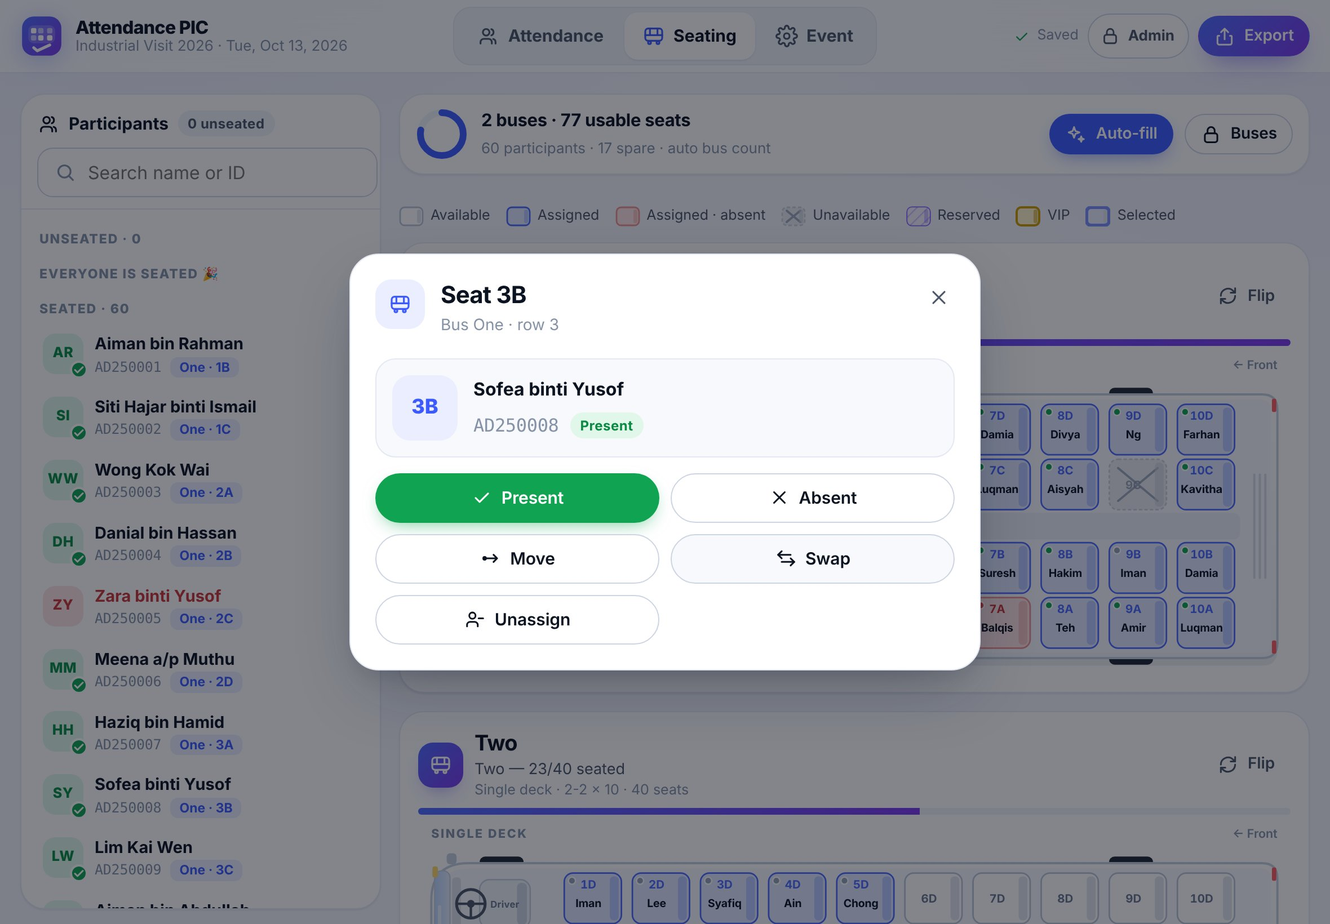
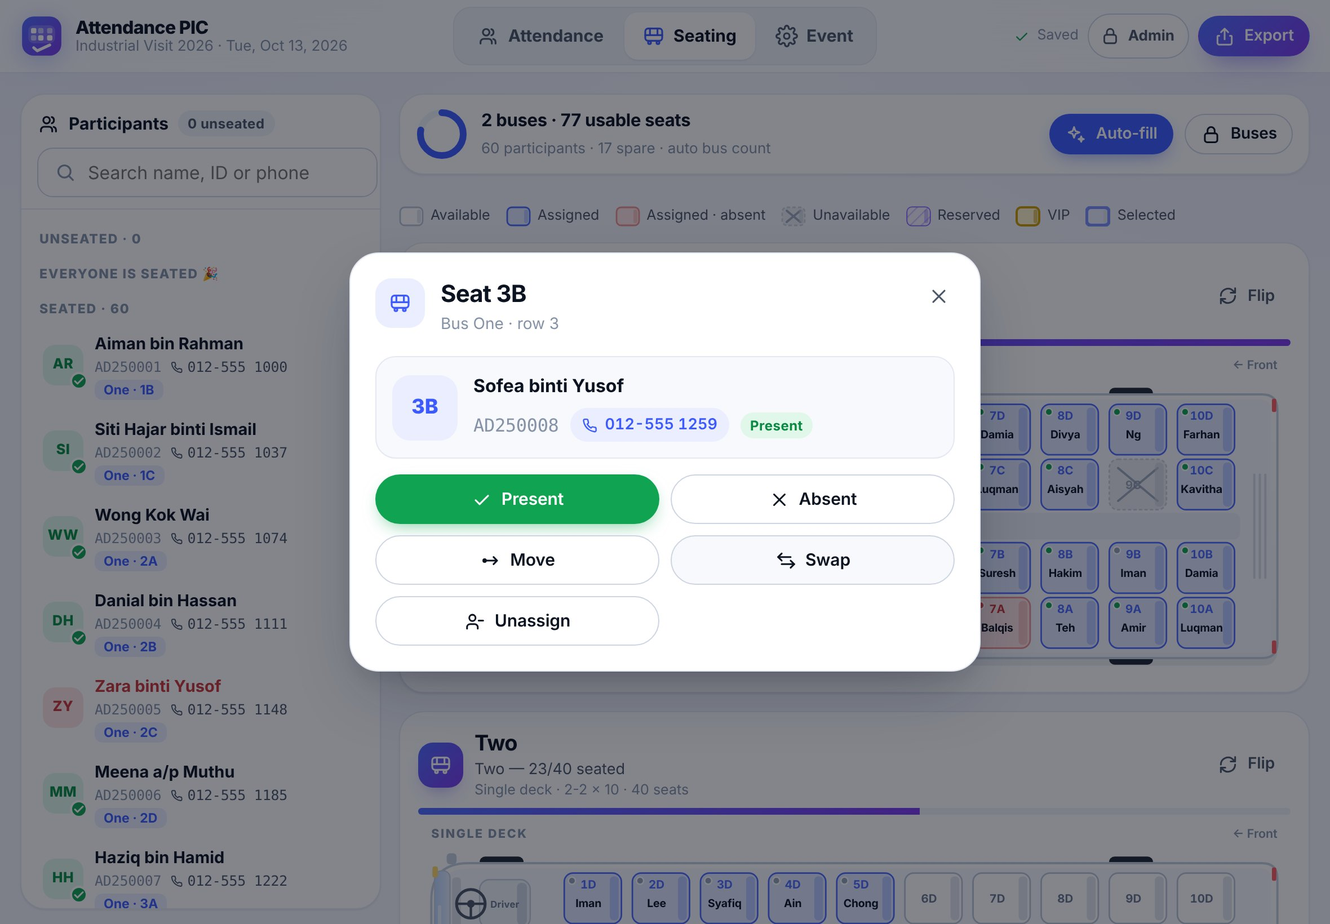
Show phone numbers in the Seating tab
- Importer detects an optional phone column (Phone, Tel, No. Tel, H/P,
  Mobile, ...); selectable in the import wizard and later in Event ->
  Participant list -> Phone column (older events fall back to a guess)
- Seating panel and seat picker show the number next to the ID; the seat
  sheet shows it as a tap-to-call link; search also matches phone digits
- 'Mask IDs and phone numbers on screen' masks phones too (maskPhone)
- Tests: tests/phone.spec.js (4) + phone mapping in the import test
- CLAUDE.md with project rules for AI assistants; docs and screenshots
  updated

Claude-Session: https://claude.ai/code/session_017cmpswsMSqKzXQX5EgusX3

diff --git a/app/js/ui/seat-interactions.js b/app/js/ui/seat-interactions.js
@@ -10,7 +10,7 @@ import { h, esc, debounce } from './dom.js';
 import { icon } from './icons.js';
 import { openOverlay, toast, choiceDialog, actionsRow } from './dialogs.js';
 import { initials, norm, plural } from '../utils/format.js';
-import { maskId } from '../utils/mask.js';
+import { maskId, maskPhone } from '../utils/mask.js';
 import { SEAT_TYPE_NAMES } from '../domain/model.js';
 
 const TYPE_ICONS = { available: 'check', unavailable: 'ban', reserved: 'bookmark', vip: 'crown' };
@@ -22,6 +22,23 @@ export function installSeatInteractions(view) {
   let panelQuery = '';
 
   const showId = (p) => (store.settings.maskIds ? maskId(p.studentId) : p.studentId);
+  const showPhone = (p) => {
+    const ph = store.phoneOf(p);
+    return ph && store.settings.maskIds ? maskPhone(ph) : ph;
+  };
+  /** Phone number as a tap-to-call link (plain text while masked). */
+  const phoneLink = (p) => {
+    const ph = store.phoneOf(p);
+    if (!ph) return '';
+    if (store.settings.maskIds) return `<span class="phone-chip" data-testid="sheet-phone">${icon('phone')}${esc(maskPhone(ph))}</span>`;
+    const tel = ph.replace(/[^\d+]/g, '');
+    return `<a class="phone-chip" href="tel:${esc(tel)}" data-testid="sheet-phone">${icon('phone')}${esc(ph)}</a>`;
+  };
+  // Search matches name, ID and phone (digits only, so "0125551000" finds "012-555 1000").
+  const haystack = (p) => {
+    const ph = store.phoneOf(p);
+    return `${norm(`${p.name} ${p.studentId} ${ph}`)} ${ph.replace(/\D/g, '')}`;
+  };
   const seatInfo = (seatId) => store.seatIndex.get(seatId);
   const seatName = (seatId) => {
     const i = seatInfo(seatId);
@@ -57,7 +74,7 @@ export function installSeatInteractions(view) {
     panel.innerHTML = `
       <div class="seat-panel-head">
         <h3>${icon('users')} Participants <span class="badge" data-testid="unseated-count"></span></h3>
-        <label class="search">${icon('search')}<input type="search" placeholder="Search name or ID" data-testid="panel-search" autocomplete="off" spellcheck="false"></label>
+        <label class="search">${icon('search')}<input type="search" placeholder="Search name, ID or phone" data-testid="panel-search" autocomplete="off" spellcheck="false"></label>
       </div>
       <ul class="panel-list" data-testid="panel-list"></ul>`;
     panelRefs = { list: panel.querySelector('.panel-list'), search: panel.querySelector('input'), count: panel.querySelector('[data-testid=unseated-count]'), panel };
@@ -90,13 +107,16 @@ export function installSeatInteractions(view) {
     const st = statusOf(p.id);
     return `<li><button type="button" class="person ${ui.selectedPid === p.id ? 'is-selected' : ''} ${st === 'present' ? 'is-present' : st === 'absent' ? 'is-absent' : ''}" data-pid="${p.id}" data-testid="person">
       <span class="avatar">${esc(initials(p.name))}<span class="tick">${icon('check')}</span></span>
-      <span class="p-main"><span class="p-name">${esc(p.name)}</span><span class="p-sub"><span class="mono">${esc(showId(p))}</span>${seat ? `<span class="seat-tag">${esc(seat.bus)} · ${esc(seat.label)}</span>` : ''}</span></span>
+      <span class="p-main"><span class="p-name">${esc(p.name)}</span><span class="p-sub"><span class="mono" data-testid="person-id">${esc(showId(p))}</span>${(() => {
+        const ph = showPhone(p);
+        return ph ? `<span class="p-phone mono" data-testid="person-phone">${icon('phone')}${esc(ph)}</span>` : '';
+      })()}${seat ? `<span class="seat-tag">${esc(seat.bus)} · ${esc(seat.label)}</span>` : ''}</span></span>
     </button></li>`;
   }
 
   function renderPanelList() {
     if (!panelRefs || !panelRefs.list.isConnected) return;
-    const match = (p) => !panelQuery || norm(`${p.name} ${p.studentId}`).includes(panelQuery);
+    const match = (p) => !panelQuery || haystack(p).includes(panelQuery);
     const unseated = store.participants.filter((p) => !store.seatOf.has(p.id));
     const seated = store.participants.filter((p) => store.seatOf.has(p.id));
     panelRefs.count.textContent = `${unseated.length} unseated`;
@@ -261,7 +281,7 @@ export function installSeatInteractions(view) {
       const typeBadge = type === 'available' ? '' : `<span class="badge ${type === 'vip' ? 'badge--vip' : type === 'reserved' ? 'badge--violet' : ''}">${icon(TYPE_ICONS[type])}${SEAT_TYPE_NAMES[type]}${t?.label ? ` · ${esc(t.label)}` : ''}</span>`;
       let html = `<div class="seat-sheet-head"><span class="seat-big ${bigCls}">${esc(info.seat.label)}</span><div class="grow">`;
       if (p) {
-        html += `<strong data-testid="sheet-name">${esc(p.name)}</strong><div class="row-wrap mt-8"><span class="mono subtle">${esc(showId(p))}</span>
+        html += `<strong data-testid="sheet-name">${esc(p.name)}</strong><div class="row-wrap mt-8"><span class="mono subtle">${esc(showId(p))}</span>${phoneLink(p)}
           <span class="badge ${st === 'present' ? 'badge--green' : st === 'absent' ? 'badge--red' : ''}" data-testid="sheet-status">${st ? st[0].toUpperCase() + st.slice(1) : 'Unmarked'}</span>${typeBadge}</div>`;
       } else {
         html += `<strong>${type === 'available' ? 'Empty seat' : SEAT_TYPE_NAMES[type] + ' seat'}</strong><div class="row-wrap mt-8">${typeBadge || '<span class="badge badge--green">Available</span>'}</div>`;
@@ -283,7 +303,7 @@ export function installSeatInteractions(view) {
           <button class="btn btn-secondary" type="button" data-a="unlock">${icon('unlock')}<span>Unlock admin</span></button>`;
       } else {
         html += `<div class="section-label">Assign someone</div>
-          <label class="search">${icon('search')}<input type="search" placeholder="Search name or ID" data-testid="picker-search" autocomplete="off" spellcheck="false"></label>
+          <label class="search">${icon('search')}<input type="search" placeholder="Search name, ID or phone" data-testid="picker-search" autocomplete="off" spellcheck="false"></label>
           <ul class="picker-list" data-testid="picker-list"></ul>`;
       }
 
@@ -300,7 +320,7 @@ export function installSeatInteractions(view) {
         const fill = () => {
           const q = norm(input.value);
           const list = store.participants
-            .filter((x) => !q || norm(`${x.name} ${x.studentId}`).includes(q))
+            .filter((x) => !q || haystack(x).includes(q))
             .sort((a, b) => Number(store.seatOf.has(a.id)) - Number(store.seatOf.has(b.id)) || a.order - b.order)
             .slice(0, 80);
           picker.innerHTML = list.map(personButton).join('') || '<li class="subtle">No match</li>';

diff --git a/tests/phone.spec.js b/tests/phone.spec.js
@@ -1,0 +1,54 @@
+import { test, expect, setupWithSample, goSeating, seat } from './helpers.js';
+
+// Sample participant #1: Aiman bin Rahman · AD250001 · 012-555 1000
+//                    #2: Siti Hajar binti Ismail · AD250002 · 012-555 1037
+const panelPeople = (page) => page.getByTestId('panel-list').getByTestId('person');
+
+test.describe('Phone numbers in the Seating tab', () => {
+  test.beforeEach(async ({ page }) => {
+    await setupWithSample(page);
+    await goSeating(page);
+  });
+
+  test('shown next to the ID in the participants panel and searchable', async ({ page }) => {
+    const first = panelPeople(page).first();
+    await expect(first.getByTestId('person-id')).toHaveText('AD250001');
+    await expect(first.getByTestId('person-phone')).toHaveText('012-555 1000');
+    // digits-only search finds the formatted number
+    await page.getByTestId('panel-search').fill('0125551037');
+    await expect(panelPeople(page)).toHaveCount(1);
+    await expect(panelPeople(page).first()).toContainText('Siti Hajar binti Ismail');
+  });
+
+  test('seat sheet shows a tap-to-call link; the picker shows phones too', async ({ page }) => {
+    await panelPeople(page).first().click();
+    await seat(page, 0, '1A').click();
+    await seat(page, 0, '1A').click();
+    await expect(page.getByTestId('sheet-phone')).toHaveText('012-555 1000');
+    await expect(page.getByTestId('sheet-phone')).toHaveAttribute('href', 'tel:0125551000');
+    await page.keyboard.press('Escape');
+    await seat(page, 0, '1B').click();
+    await expect(page.getByTestId('picker-list').getByTestId('person-phone').first()).toHaveText('012-555 1037');
+  });
+
+  test('masked together with IDs when "Mask IDs and phone numbers" is on', async ({ page }) => {
+    await page.goto('./#/event');
+    await page.getByTestId('mask-toggle').click();
+    await goSeating(page);
+    const first = panelPeople(page).first();
+    await expect(first.getByTestId('person-id')).toHaveText('AD••••••');
+    await expect(first.getByTestId('person-phone')).toHaveText('012-••• ••00');
+  });
+
+  test('the phone column can be changed or turned off in the Event tab', async ({ page }) => {
+    await page.goto('./#/event');
+    await expect(page.getByTestId('ev-phone')).toHaveValue('Phone');
+    await page.getByTestId('ev-phone').selectOption('');
+    await goSeating(page);
+    await expect(panelPeople(page).first().getByTestId('person-phone')).toHaveCount(0);
+    await page.goto('./#/event');
+    await page.getByTestId('ev-phone').selectOption('Phone');
+    await goSeating(page);
+    await expect(panelPeople(page).first().getByTestId('person-phone')).toHaveText('012-555 1000');
+  });
+});

diff --git a/app/js/ui/event-view.js b/app/js/ui/event-view.js
@@ -46,6 +46,11 @@ export function createEventView(ctx) {
             <dt>Key info</dt><dd>${esc((cols?.keyInfo || []).join(', ') || '—')}</dd>
             <dt>Buses</dt><dd>${store.buses.length} · ${esc(describeConfig(store.template))} template</dd>
           </dl>
+          ${cols ? `<label class="field mt-16"><span class="field-label">Phone column <small class="subtle">(shown in the Seating tab)</small></span>
+            <select class="select" data-k="phone" data-testid="ev-phone">
+              <option value="" ${store.phoneColumn() ? '' : 'selected'}>— None —</option>
+              ${(cols.headers || []).filter((hd) => hd !== cols.name && hd !== cols.id).map((hd) => `<option value="${esc(hd)}" ${hd === store.phoneColumn() ? 'selected' : ''}>${esc(hd)}</option>`).join('')}
+            </select></label>` : ''}
           <div class="row-wrap mt-16">
             <button class="btn btn-primary" type="button" data-act="import" data-testid="ev-import">${icon('upload')}<span>Import list</span></button>
           </div>
@@ -86,7 +91,7 @@ export function createEventView(ctx) {
             <div class="segmented" data-k="theme" role="group" aria-label="Theme">
               ${[['auto', 'monitor', 'Auto'], ['light', 'sun', 'Light'], ['dark', 'moon', 'Dark']].map(([v, ic, l]) => `<button type="button" data-theme-opt="${v}" aria-pressed="${store.settings.theme === v}">${icon(ic)}${l}</button>`).join('')}
             </div>
-            <label class="switch" data-testid="mask-toggle"><input type="checkbox" data-k="mask" ${store.settings.maskIds ? 'checked' : ''}><span class="track"></span><span>Mask IDs on screen (e.g. AD••••••)</span></label>
+            <label class="switch" data-testid="mask-toggle"><input type="checkbox" data-k="mask" ${store.settings.maskIds ? 'checked' : ''}><span class="track"></span><span>Mask IDs and phone numbers on screen (e.g. AD••••••, 012-••• ••00)</span></label>
           </div>
         </div>
 
@@ -127,6 +132,10 @@ export function createEventView(ctx) {
       if (b) store.setSetting('theme', b.dataset.themeOpt);
     });
     el.querySelector('[data-k=mask]').addEventListener('change', (e) => store.setSetting('maskIds', e.target.checked));
+    el.querySelector('[data-k=phone]')?.addEventListener('change', async (e) => {
+      await store.setPhoneColumn(e.target.value);
+      toast(e.target.value ? `Phone numbers from “${e.target.value}”` : 'Phone numbers hidden');
+    });
     el.querySelector('[data-testid=event-list]').addEventListener('click', async (e) => {
       const open = e.target.closest('[data-open]');
       const del = e.target.closest('[data-delete]');

diff --git a/app/js/store.js b/app/js/store.js
@@ -11,7 +11,7 @@ import { createEvent, createBus, emptyAttendance, STATUS, SCHEMA_VERSION } from 
 import { enumerateSeats, normalizeConfig, nextBusName, parseSeatId } from './domain/layout.js';
 import { planAutoBuses, busStats } from './domain/capacity.js';
 import { hhmm, norm } from './utils/format.js';
-import { buildParticipants } from './io/importer.js';
+import { buildParticipants, guessPhoneColumn } from './io/importer.js';
 import { BACKUP_FORMAT } from './repo/errors.js';
 
 const UNDO_LIMIT = 50;
@@ -727,6 +727,28 @@ export class Store extends EventTarget {
     if (!seatId) return null;
     const info = this.seatIndex.get(seatId);
     return info ? { seatId, label: info.seat.label, bus: info.bus.name, busId: info.bus.id, order: info.bus.order * 10000 + info.seat.index } : null;
+  }
+
+  // ── phone numbers ─────────────────────────────────────────────────────────
+  /**
+   * The column holding phone numbers ('' = none). Events imported before the
+   * phone mapping existed fall back to a guess from their headers.
+   */
+  phoneColumn() {
+    const cols = this.event?.columns;
+    if (!cols) return '';
+    if (typeof cols.phone === 'string') return cols.phone;
+    return guessPhoneColumn(cols.headers || [], [cols.name, cols.id, ...Object.values(cols.reused || {})].filter(Boolean));
+  }
+
+  phoneOf(p) {
+    const col = this.phoneColumn();
+    return col ? String(p?.original?.[col] ?? '').trim() : '';
+  }
+
+  async setPhoneColumn(col) {
+    if (!this.event?.columns) return;
+    await this.updateEvent({ columns: { ...this.event.columns, phone: col || '' } });
   }
 
   // ── backup ────────────────────────────────────────────────────────────────

diff --git a/app/js/io/importer.js b/app/js/io/importer.js
@@ -23,7 +23,18 @@ const PATTERNS = {
   remarks: [/^(remarks?|notes?|catatan|comments?)$/i],
   bus: [/^bus(\s*(no\.?|name|number))?$/i, /^bas$/i],
   time: [/^check[\s-]?in(\s*time)?$/i, /^(time|masa)$/i],
+  phone: [
+    /^(phone|tel|telephone|mobile|hp|h\/p|handphone|contact)(\s*(no\.?|number|num))?$/i,
+    /^no\.?\s*(tel|telefon|hp|h\/p|phone|handphone)$/i,
+    /^(nombor|no\.?)\s*telefon(\s*bimbit)?$/i,
+    /phone|telefon|mobile|handphone|\btel\b|\bh\/p\b/i,
+  ],
 };
+
+/** Best guess for the phone-number column ('' if none). */
+export function guessPhoneColumn(headers, exclude = []) {
+  return guess(headers, 'phone', exclude);
+}
 
 function guess(headers, kind, exclude = []) {
   for (const re of PATTERNS[kind]) {
@@ -54,9 +65,10 @@ export function guessMapping(headers, records = []) {
         return vals.length && vals.filter((v) => /^[A-Za-z]{0,4}\d{4,}[A-Za-z0-9]*$/.test(v)).length / vals.length > 0.8;
       }) || '';
   }
-  const skip = new Set([name, id, ...taken, ...headers.filter((h) => /^(no\.?|bil\.?|#|num)$/i.test(h))]);
+  const phone = guess(headers, 'phone', [...taken, name, id]);
+  const skip = new Set([name, id, phone, ...taken, ...headers.filter((h) => /^(no\.?|bil\.?|#|num)$/i.test(h))]);
   const keyInfo = headers.filter((h) => h && !skip.has(h)).slice(0, 2);
-  return { name, id, keyInfo, reused };
+  return { name, id, phone, keyInfo, reused };
 }
 
 const PRESENT_RE = /^(present|p|yes|y|1|true|hadir|✓|✔|☑)$/i;
@@ -151,6 +163,7 @@ export function buildParticipants(table, mapping, eventId, sessionId) {
     headers: [...table.headers],
     name: mapping.name,
     id: mapping.id,
+    phone: mapping.phone || '',
     keyInfo: [...(mapping.keyInfo || [])],
     reused: { present: r.present || '', seat: r.seat || '', remarks: r.remarks || '', bus: r.bus || '', time: r.time || '' },
   };

diff --git a/app/js/ui/import-flow.js b/app/js/ui/import-flow.js
@@ -109,6 +109,7 @@ export function openImport(ctx, { file } = {}) {
           ${sheetSel}
           <label class="field"><span class="field-label">Name column *</span><select class="select" data-k="name" data-testid="map-name">${opt(mapping.name)}</select></label>
           <label class="field"><span class="field-label">ID / matric no. column *</span><select class="select" data-k="id" data-testid="map-id">${opt(mapping.id)}</select></label>
+          <label class="field"><span class="field-label">Phone column (optional)</span><select class="select" data-k="phone" data-testid="map-phone"><option value="" ${mapping.phone ? '' : 'selected'}>— None —</option>${opt(mapping.phone)}</select></label>
         </div>
         <div class="field">
           <span class="field-label">Key info shown on each row (optional)</span>
@@ -149,7 +150,7 @@ export function openImport(ctx, { file } = {}) {
       buildTable(true);
       stepMap();
     });
-    for (const k of ['name', 'id']) {
+    for (const k of ['name', 'id', 'phone']) {
       body.querySelector(`[data-k=${k}]`).addEventListener('change', (e) => {
         st.mapping[k] = e.target.value;
         st.mapping.keyInfo = st.mapping.keyInfo.filter((c) => c !== e.target.value);

diff --git a/app/js/ui/icons.js b/app/js/ui/icons.js
@@ -40,6 +40,7 @@ const P = {
   alert: '<path d="M10.3 4.2 2.8 17.5A2 2 0 0 0 4.5 20.5h15a2 2 0 0 0 1.7-3L13.7 4.2a2 2 0 0 0-3.4 0Z"/><path d="M12 9.5v4.5M12 17v.5"/>',
   pin: '<path d="M12 21s-6.5-5.6-6.5-11a6.5 6.5 0 0 1 13 0c0 5.4-6.5 11-6.5 11Z"/><circle cx="12" cy="10" r="2.5"/>',
   user: '<circle cx="12" cy="8" r="4"/><path d="M4.5 20.5a7.5 7.5 0 0 1 15 0"/>',
+  phone: '<path d="M20.5 16.6v2.6a1.8 1.8 0 0 1-2 1.8 17.6 17.6 0 0 1-7.7-2.7 17.3 17.3 0 0 1-5.3-5.3A17.6 17.6 0 0 1 2.8 5.3 1.8 1.8 0 0 1 4.6 3.3h2.6a1.8 1.8 0 0 1 1.8 1.5c.1.9.3 1.7.6 2.5a1.8 1.8 0 0 1-.4 1.9L8 10.3a14.4 14.4 0 0 0 5.4 5.4l1.1-1.1a1.8 1.8 0 0 1 1.9-.4c.8.3 1.6.5 2.5.6a1.8 1.8 0 0 1 1.6 1.8Z"/>',
   more: '<circle cx="5.5" cy="12" r="1.3"/><circle cx="12" cy="12" r="1.3"/><circle cx="18.5" cy="12" r="1.3"/>',
   refresh: '<path d="M20 11a8 8 0 0 0-14.3-4.6L4 8"/><path d="M4 3.5V8h4.5"/><path d="M4 13a8 8 0 0 0 14.3 4.6L20 16"/><path d="M20 20.5V16h-4.5"/>',
   eyeOff: '<path d="M3 3l18 18"/><path d="M10.6 5.1A9.7 9.7 0 0 1 12 5c5 0 8.5 4.5 9.5 7a13 13 0 0 1-2.6 3.8M6.6 6.6A13.3 13.3 0 0 0 2.5 12c1 2.5 4.5 7 9.5 7a9.3 9.3 0 0 0 4.4-1.1"/><path d="M9.9 9.9a3 3 0 0 0 4.2 4.2"/>',

diff --git a/app/css/bus.css b/app/css/bus.css
@@ -203,8 +203,16 @@
 .person .avatar .tick { width: 16px; height: 16px; right: -4px; bottom: -4px; }
 .person .p-main { flex: 1; min-width: 0; }
 .person .p-name { font-weight: 650; font-size: 14.5px; white-space: nowrap; overflow: hidden; text-overflow: ellipsis; }
-.person .p-sub { font-size: 12.5px; color: var(--text-3); display: flex; gap: 8px; }
+.person .p-sub { font-size: 12.5px; color: var(--text-3); display: flex; flex-wrap: wrap; align-items: center; gap: 2px 8px; }
 .person .seat-tag { font-size: 11.5px; }
+.person .p-phone { display: inline-flex; align-items: center; gap: 3px; color: var(--text-2); white-space: nowrap; }
+.person .p-phone .icon { width: 12px; height: 12px; }
+.phone-chip {
+  display: inline-flex; align-items: center; gap: 6px; min-height: 30px; padding: 2px 10px; border-radius: 99px;
+  background: var(--brand-soft); color: var(--brand); font-weight: 600; font-size: 13.5px; text-decoration: none;
+  font-variant-numeric: tabular-nums;
+}
+.phone-chip .icon { width: 15px; height: 15px; }
 .person.is-absent .p-name { color: var(--absent-600); }
 
 .seat-main { min-width: 0; display: grid; gap: 14px; }

diff --git a/app/js/utils/mask.js b/app/js/utils/mask.js
@@ -16,3 +16,19 @@ export function maskId(id) {
   const keep = prefix.length || Math.min(2, Math.max(0, s.length - 4));
   return s.slice(0, keep) + MASK_CHAR.repeat(Math.max(s.length - keep, 1));
 }
+
+/**
+ * Phone numbers under the same privacy setting: keep the first 3 and the
+ * last 2 digits, mask the rest, keep spaces/dashes ("012-555 1000" →
+ * "012-••• ••00").
+ */
+export function maskPhone(phone) {
+  const s = String(phone ?? '').trim();
+  const digits = s.replace(/\D/g, '').length;
+  if (!digits) return s;
+  let seen = 0;
+  return s.replace(/\d/g, (d) => {
+    seen++;
+    return seen <= 3 || seen > digits - 2 ? d : MASK_CHAR;
+  });
+}

diff --git a/tests/import.spec.js b/tests/import.spec.js
@@ -8,6 +8,7 @@ test.describe('Import', () => {
     await expect(page.getByTestId('import-count')).toHaveText('60 participants');
     await expect(page.getByTestId('map-name')).toHaveValue('Name');
     await expect(page.getByTestId('map-id')).toHaveValue('Matric No');
+    await expect(page.getByTestId('map-phone')).toHaveValue('Phone');
     await expect(page.getByTestId('reused-notice')).toContainText('Remarks');
     await page.getByTestId('confirm-import').click();
     await expect(page.getByTestId('att-row')).toHaveCount(60);

diff --git a/app/js/ui/seating-view.js b/app/js/ui/seating-view.js
@@ -259,6 +259,7 @@ export function createSeatingView(ctx) {
     else if (d.type === 'event') {
       const cap = el.querySelector('.cap-summary');
       if (cap) cap.outerHTML = capacityBlock();
+      api.hooks.onDataChange?.(d); // e.g. the phone column changed
     }
   };
   api.onAdminChange = () => {

diff --git a/README.md b/README.md
@@ -38,7 +38,7 @@ storage.
 | **📥 Import anything** | `.xlsx`, `.csv`, `.txt` (comma, tab or semicolon detected automatically). Preview, pick the **Name** and **ID** columns, choose key info to show. Existing `Present` / `Seat` / `Remarks` columns are reused. Duplicate IDs and empty rows are flagged. |
 | **✅ Fast attendance** | Big **Present / Absent** buttons, automatic `HH:MM` check-in time, remarks, sticky search (name, ID or seat), filters (All · Unmarked · Present · Absent · Unseated), sorting, live counters, **undo**. |
 | **🚌 Real bus layouts** | Top-down coach with nose, windscreen, driver, steering wheel, door, aisle and rear. Layouts **2-2, 2-3, 1-2, 1-3**, any number of rows, optional **back bench**, **double-decker** (L/U seats, stairs on both decks), flip the facing direction. |
-| **🪑 Tap-tap seating** | Tap a person then a seat — or tap a seat and pick a person. Move, swap, unassign, mark present/absent from the seat. **Auto-fill** front to back, lower deck first, never moving anyone already seated. |
+| **🪑 Tap-tap seating** | Tap a person then a seat — or tap a seat and pick a person. Move, swap, unassign, mark present/absent from the seat. **Auto-fill** front to back, lower deck first, never moving anyone already seated. The participants panel shows each person's **ID and phone number**; the seat sheet has a **tap-to-call** link. |
 | **🔢 Automatic bus count** | Adds buses until everyone fits (usable = total − unavailable − reserved − VIP). Warns before removing a bus or seats that hold passengers. |
 | **🔐 Admin mode** | PIN set on first launch, auto-lock after 5 minutes idle. Only admins mark seats **Unavailable / Reserved / VIP** (with labels such as “Dr. Ahmad”), edit layouts, add/remove/rename buses, reset or restore. |
 | **📤 Exports** | **Excel** (absent rows shaded `#FDE2E2`), **CSV**, **PDF** (A4, event header, counts, repeated table header, page numbers, optional **seat maps** — one page per deck) and a **JSON backup**. Shared through the iPad share sheet (AirDrop, Mail, Files…) or downloaded. |
@@ -115,12 +115,13 @@ For this repository that is **https://schwi2807.github.io/attendance-pic/**.
   The Playwright suite fails if *any* request goes to another origin or if the CSP is violated.
 - **Admin PIN** is stored as a salted SHA-256 hash. It is a guard-rail against accidental edits on a shared iPad, not encryption.
 - **Exports** are created on the device and handed to the iPad share sheet or Downloads. Where they go next is up to you.
-- **IDs on screen** can be masked (`AD••••••`) in *Event → Display*.
+- **IDs and phone numbers on screen** can be masked (`AD••••••`, `012-••• ••00`) in *Event → Display*.
 
 ## Data formats
 
 **Import** — any table with a header row. The importer guesses columns such as `Name` / `Nama` and
-`Matric No` / `No. Matrik` / `Student ID`; you can change the mapping. Recognised and reused:
+`Matric No` / `No. Matrik` / `Student ID`, plus an optional **phone** column (`Phone`, `Tel`, `No. Tel`, `H/P`,
+`Mobile` …); you can change the mapping (the phone column also later, in the Event tab). Recognised and reused:
 `Present` (Present/Yes/Hadir/1 → present, Absent/No/0 → absent), `Seat`, `Remarks`, plus `Bus` and
 `Check-in Time` (so an exported file can be imported again).
 
@@ -153,10 +154,11 @@ Helper scripts:
 | `npm run icons` | Renders the PWA icons from the SVG logo. |
 | `npm run screenshots` | Regenerates the README screenshots with fake data. |
 
-**Tests** (`tests/*.spec.js`, 53 cases) cover import of all formats, delimiter detection, warnings,
+**Tests** (`tests/*.spec.js`, 57 cases) cover import of all formats, delimiter detection, warnings,
 marking/undo/filters/search/sort, auto bus count (60 people → 2 buses), every layout (2-2, 2-3, 1-2, 1-3),
 back bench, double-decker, flip, admin PIN lock/unlock/auto-lock/change, seat types changing capacity and
-bus count, non-admins blocked from seat types, assign/move/swap/unassign, auto-fill, reload persistence,
+bus count, non-admins blocked from seat types, assign/move/swap/unassign, auto-fill, phone numbers in the
+Seating tab (search, tap-to-call, masking), reload persistence,
 XLSX/CSV/PDF (with and without seat maps)/JSON exports and restore, offline use via the service worker,
 the CSP, and **zero off-origin requests**.
 
